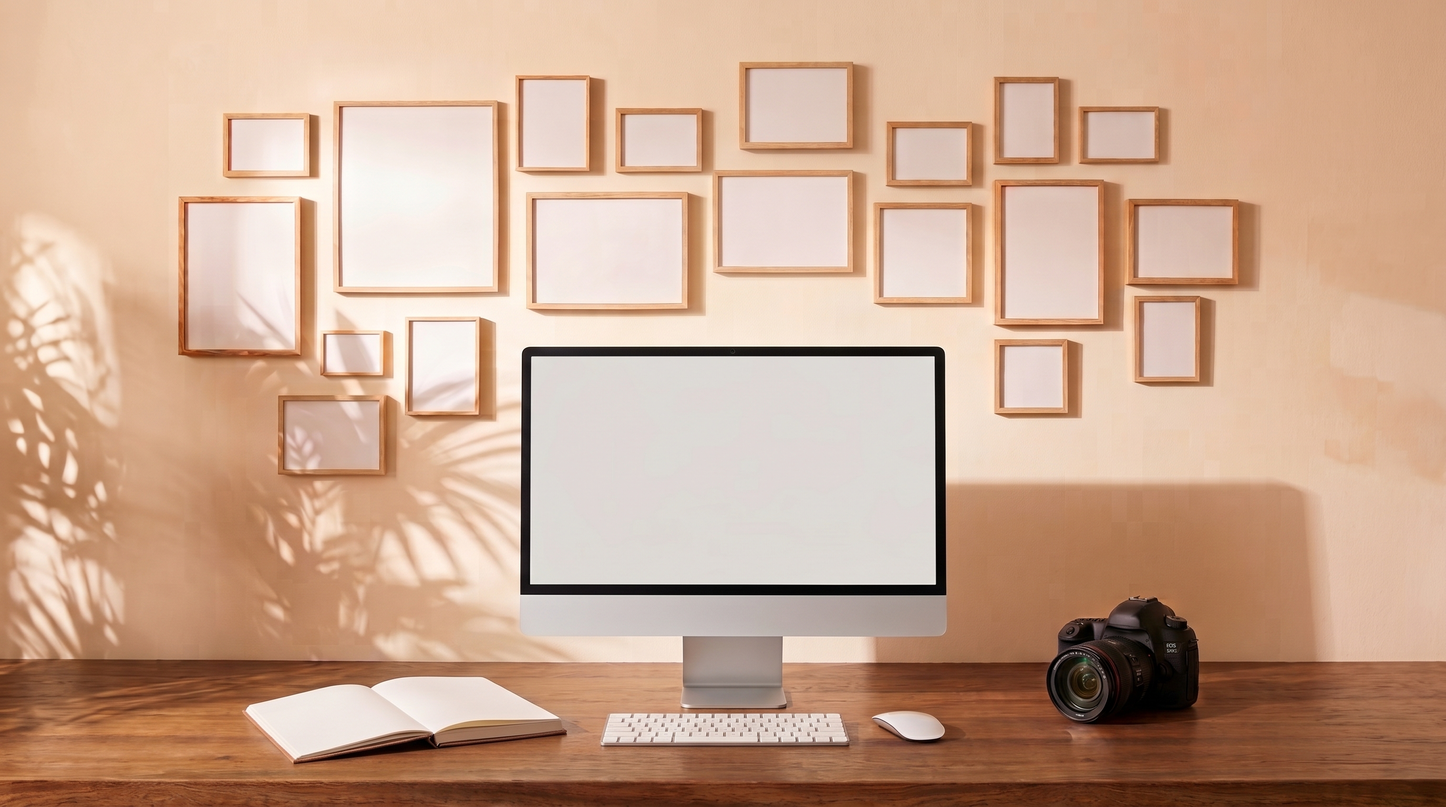
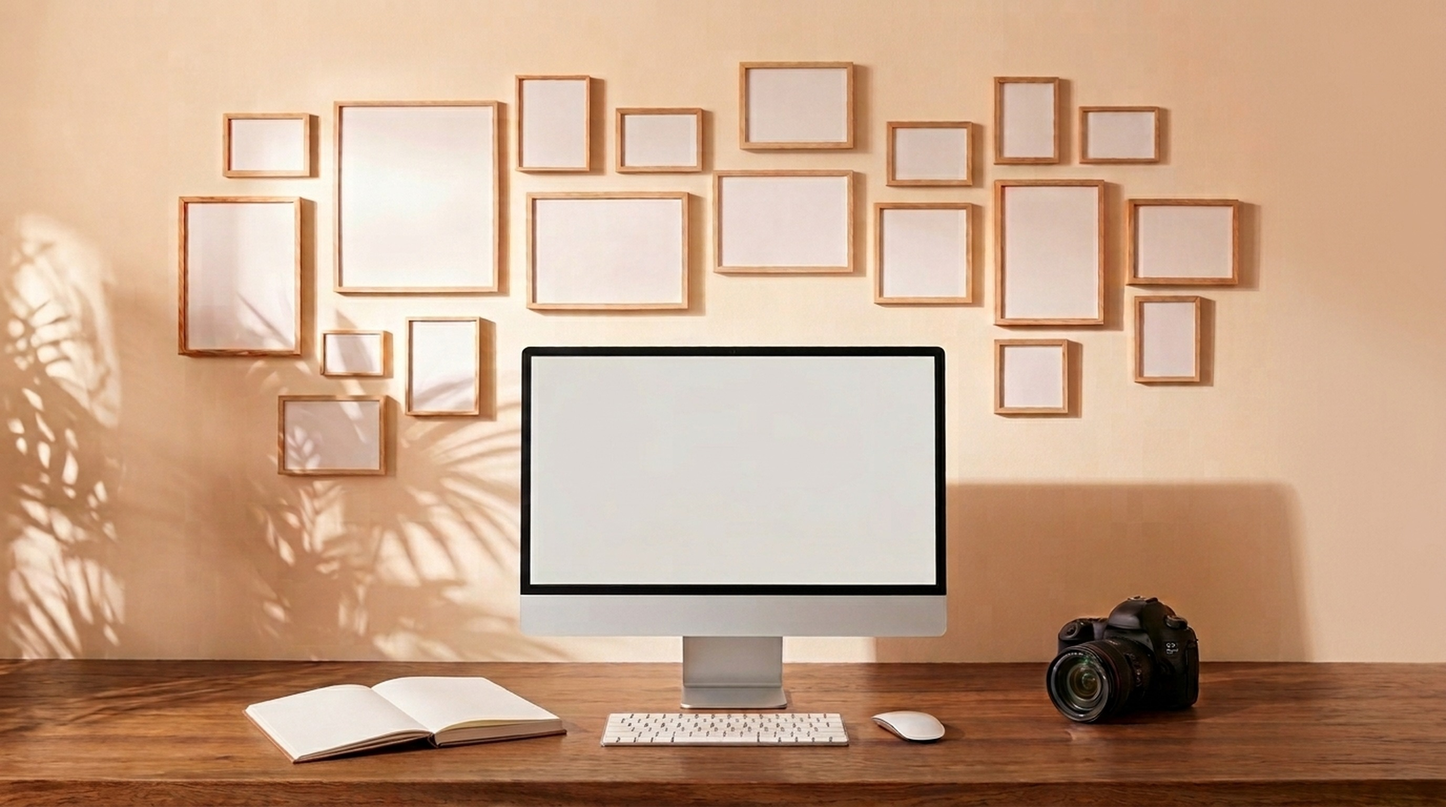
Speed up sketchbook zoom to 2x and refresh desk still
Play enter/exit zoom footage at 2x and swap in the cleaned desk-final
background (same framing; right-edge blotches removed).

diff --git a/src/components/DeskScene.tsx b/src/components/DeskScene.tsx
@@ -57,11 +57,12 @@ function coverLayout(vw: number, vh: number) {
 function playVideoReverse(
   video: HTMLVideoElement,
   onDone: () => void,
+  rate = 1,
 ): () => void {
   let cancelled = false
   let raf = 0
   const fps = 30
-  const step = 1 / fps
+  const step = (1 / fps) * Math.max(0.25, rate)
   let last = performance.now()
 
   const tick = (now: number) => {
@@ -230,6 +231,7 @@ export function DeskScene({
       if (hasVideo && video) {
         setVideoPlaying(true)
         gsap.set(video, { autoAlpha: 1 })
+        video.playbackRate = NOTEBOOK.zoomPlaybackRate
         video.currentTime = 0
         const lead = NOTEBOOK.zoomHandoffLead
         let handedOff = false
@@ -323,7 +325,11 @@ export function DeskScene({
         const startReverse = () => {
           setVideoPlaying(true)
           gsap.set(video, { autoAlpha: 1 })
-          reverseCancelRef.current = playVideoReverse(video, finishExit)
+          reverseCancelRef.current = playVideoReverse(
+            video,
+            finishExit,
+            NOTEBOOK.zoomPlaybackRate,
+          )
         }
 
         const overheadVisible =

diff --git a/src/lib/config.ts b/src/lib/config.ts
@@ -41,7 +41,9 @@ export const NOTEBOOK = {
    * Legacy 2D dolly kept only as a no-video fallback.
    */
   zoomVideo: '/sketchbook-zoom.mp4',
-  /** Start crossfade to overhead this many seconds before clip end. */
+  /** Playback rate for zoom in/out clip (2 = twice real-time). */
+  zoomPlaybackRate: 2,
+  /** Start crossfade to overhead this many seconds before clip end (media time). */
   zoomHandoffLead: 0.35,
   zoom: {
     scale: 4.0,
